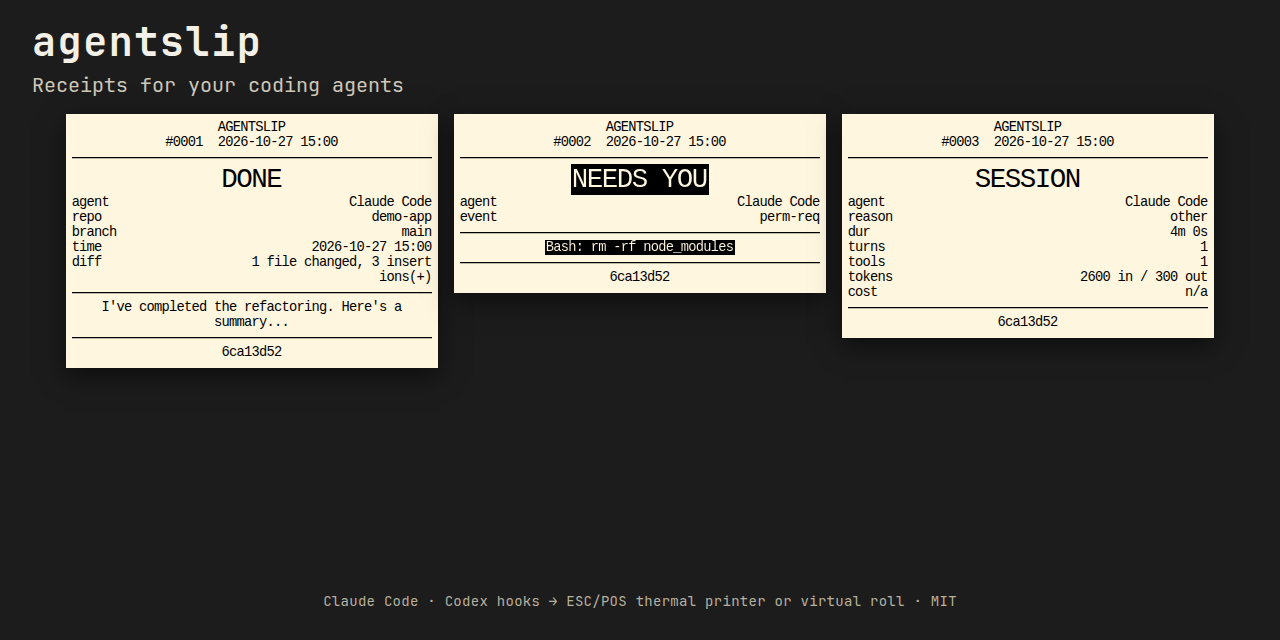
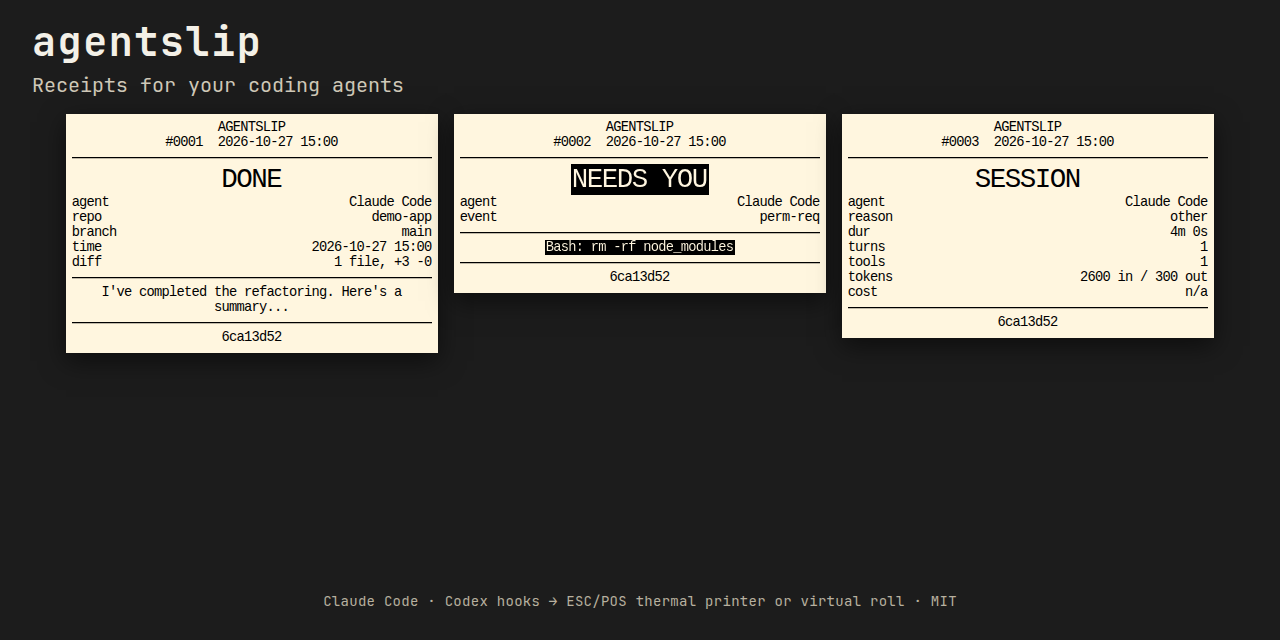
fix: never split two-column slip values mid-word
Wrap kv values at receiptline's equal-column width and print git
shortstat as 1 file, +3 -0. This stops 80 mm insertions and 58 mm
out (#8) from breaking across lines. Snapshots and a fixture-wide
word-split test cover both paper widths.

Changed region(s): [[0.0312, 0.375, 0.3438, 0.5938]]

diff --git a/src/slips/document.test.ts b/src/slips/document.test.ts
@@ -1,14 +1,19 @@
+import fs from "node:fs";
+import path from "node:path";
 import { describe, expect, it } from "vitest";
 import {
   ESC_INIT,
   buildDocument,
   columnsFor,
   hasCutSequence,
+  kvColumnWidth,
   renderFromDocument,
   renderSlip,
 } from "./document.js";
 import type { SlipData } from "../types.js";
 import { defaultConfig } from "../config.js";
+import { compactShortstat } from "../gitinfo.js";
+import { parseHook } from "../hooks/parse.js";
 
 const time = new Date("2026-10-27T15:00:00.000Z");
 
@@ -141,5 +146,170 @@ describe("snapshots from the same receiptline document", () => {
         `../../test/__snapshots__/${name}.escpos.hex`,
       );
     });
+  }
+});
+
+const sessionWithTokens: SlipData = {
+  ...session,
+  duration: "4m 0s",
+  turns: 1,
+  tools: 1,
+  tokens: "2600 in / 300 out",
+  cost: "n/a",
+};
+
+function svgTextLines(svg: string): string[] {
+  const rows = [...svg.matchAll(/<g transform="translate\(0,(\d+)\)">([\s\S]*?)<\/g>/g)];
+  const byY = new Map<number, string>();
+  for (const m of rows) {
+    const y = Number(m[1]);
+    const chars = [...m[2].matchAll(/>([^<]*)<\/tspan>/g)]
+      .map((t) => t[1].replace(/&#xa0;/g, " "))
+      .join("");
+    if (!chars.replace(/\s/g, "")) continue;
+    byY.set(y, `${byY.get(y) ?? ""}${chars}`);
+  }
+  return [...byY.entries()]
+    .sort((a, b) => a[0] - b[0])
+    .map(([, t]) => t);
+}
+
+function midWordSplits(lines: string[], haystack: string): string[] {
+  const hits: string[] = [];
+  const hay = haystack.replace(/\s+/g, " ");
+  for (let i = 1; i < lines.length; i++) {
+    const prev = lines[i - 1].replace(/\s+$/, "");
+    const next = lines[i].replace(/^\s+/, "");
+    const left = prev.match(/[A-Za-z0-9]+$/);
+    const right = next.match(/^[A-Za-z0-9]+/);
+    if (!left || !right) continue;
+    const word = `${left[0]}${right[0]}`;
+    if (word.length < 3) continue;
+    if (hay.includes(word)) hits.push(`${left[0]}|${right[0]}`);
+  }
+  return hits;
+}
+
+function fieldHaystack(data: SlipData): string {
+  return [
+    data.agent,
+    data.event,
+    data.repo,
+    data.branch,
+    data.summary,
+    data.request,
+    data.gitShortstat,
+    data.gitShortstat ? compactShortstat(data.gitShortstat) : "",
+    data.tokens,
+    data.cost,
+    data.duration,
+    data.reason,
+    data.turns === undefined ? "" : String(data.turns),
+    data.tools === undefined ? "" : String(data.tools),
+    "AGENTSLIP",
+    "DONE",
+    "SESSION",
+    "perm-req",
+    "notify",
+    "insertions",
+    "out",
+  ].join(" ");
+}
+
+describe("two-column values never split a word", () => {
+  it("uses receiptline's equal-column width", () => {
+    expect(kvColumnWidth(32)).toBe(16);
+    expect(kvColumnWidth(48)).toBe(24);
+  });
+
+  it("prints a compact shortstat on DONE", () => {
+    const { document } = buildDocument(done, { widthMm: 58, ticketNo: 1 });
+    expect(document).toMatch(/1 file, \+3 \\-0/);
+    expect(document).not.toContain("insertions");
+  });
+
+  it("keeps 'out' intact on a 58 mm SESSION token row", () => {
+    const rendered = renderSlip(sessionWithTokens, defaultConfig(), 1);
+    const lines = svgTextLines(rendered.svg);
+    expect(lines.join(" ")).toMatch(/300\s+out/);
+    expect(midWordSplits(lines, fieldHaystack(sessionWithTokens))).toEqual([]);
+  });
+
+  it("falls back to a single column when a token is wider than the value column", () => {
+    const long: SlipData = { ...done, repo: "supercalifragilistic" };
+    const { document } = buildDocument(long, { widthMm: 58, ticketNo: 1 });
+    expect(document).toMatch(/^repo$/m);
+    expect(document).toContain("supercalifragilistic");
+    expect(document).not.toMatch(/repo\s+\|/);
+  });
+
+  const canned: [string, SlipData][] = [
+    ["done", done],
+    ["needs-you", needs],
+    ["session", session],
+    ["session-tokens", sessionWithTokens],
+  ];
+
+  for (const width of [58, 80] as const) {
+    for (const [name, data] of canned) {
+      it(`${name} at ${width} mm`, () => {
+        const cfg = { ...defaultConfig(), widthMm: width };
+        const rendered = renderSlip(data, cfg, 1);
+        const splits = midWordSplits(svgTextLines(rendered.svg), fieldHaystack(data));
+        expect(splits, `${name} ${width} mm split ${splits.join(",")}`).toEqual([]);
+      });
+    }
+  }
+
+  const fixtureFiles = [
+    "fixtures/claude-code/stop.json",
+    "fixtures/claude-code/stop-sparse.json",
+    "fixtures/claude-code/notification.json",
+    "fixtures/claude-code/permission-request.json",
+    "fixtures/claude-code/session-end.json",
+    "fixtures/codex/stop.json",
+    "fixtures/codex/permission-request.json",
+    "fixtures/codex/session-end.json",
+  ];
+
+  for (const rel of fixtureFiles) {
+    for (const width of [58, 80] as const) {
+      it(`${rel} at ${width} mm`, async () => {
+        const prev = {
+          repo: process.env.AGENTSLIP_GIT_REPO,
+          branch: process.env.AGENTSLIP_GIT_BRANCH,
+          stat: process.env.AGENTSLIP_GIT_SHORTSTAT,
+        };
+        process.env.AGENTSLIP_GIT_REPO = "demo-app";
+        process.env.AGENTSLIP_GIT_BRANCH = "main";
+        process.env.AGENTSLIP_GIT_SHORTSTAT = "1 file changed, 3 insertions(+)";
+        try {
+          const payload = JSON.parse(fs.readFileSync(path.join(process.cwd(), rel), "utf8")) as Record<
+            string,
+            unknown
+          >;
+          if (rel.includes("session-end")) {
+            payload.transcript_path = path.join(
+              process.cwd(),
+              "fixtures/transcripts/claude-session.jsonl",
+            );
+          }
+          const data = await parseHook(payload, time);
+          expect(data).not.toBeNull();
+          if (!data) return;
+          const cfg = { ...defaultConfig(), widthMm: width };
+          const rendered = renderSlip(data, cfg, 1);
+          const splits = midWordSplits(svgTextLines(rendered.svg), fieldHaystack(data));
+          expect(splits, `${rel} ${width} mm split ${splits.join(",")}`).toEqual([]);
+        } finally {
+          if (prev.repo === undefined) delete process.env.AGENTSLIP_GIT_REPO;
+          else process.env.AGENTSLIP_GIT_REPO = prev.repo;
+          if (prev.branch === undefined) delete process.env.AGENTSLIP_GIT_BRANCH;
+          else process.env.AGENTSLIP_GIT_BRANCH = prev.branch;
+          if (prev.stat === undefined) delete process.env.AGENTSLIP_GIT_SHORTSTAT;
+          else process.env.AGENTSLIP_GIT_SHORTSTAT = prev.stat;
+        }
+      });
+    }
   }
 });

diff --git a/src/slips/document.ts b/src/slips/document.ts
@@ -2,6 +2,7 @@ import { createHash } from "node:crypto";
 import { createRequire } from "node:module";
 import type { AgentslipConfig, RenderedSlip, SlipData } from "../types.js";
 import { formatLocal } from "../clock.js";
+import { compactShortstat } from "../gitinfo.js";
 import { redact } from "../redact.js";
 import { wrapLine } from "../wrap.js";
 import { escapeRl } from "./escape.js";
@@ -51,7 +52,7 @@ export function buildDocument(
     kv(lines, "branch", data.branch ? r(data.branch) : undefined, cpl);
     kv(lines, "time", formatLocal(data.time), cpl);
     if (data.duration) kv(lines, "dur", data.duration, cpl);
-    if (data.gitShortstat) kv(lines, "diff", r(data.gitShortstat), cpl);
+    if (data.gitShortstat) kv(lines, "diff", r(compactShortstat(data.gitShortstat)), cpl);
     if (data.summary) {
       lines.push("-".repeat(Math.min(cpl, 32)));
       for (const w of wrapLine(r(data.summary), cpl)) lines.push(escapeRl(w));
@@ -108,11 +109,22 @@ export function eventLabel(event: string): string {
   }
 }
 
+/** receiptline `|` splits a line into two equal columns. */
+export function kvColumnWidth(cpl: number): number {
+  return Math.floor(cpl / 2);
+}
+
 function kv(lines: string[], key: string, value: string | undefined, cpl: number): void {
   if (value === undefined || value === "") return;
+  const colW = kvColumnWidth(cpl);
+  const words = value.replace(/\s+/g, " ").trim().split(" ");
+  if (words.some((w) => w.length > colW)) {
+    lines.push(escapeRl(key));
+    for (const w of wrapLine(value, cpl)) lines.push(escapeRl(w));
+    return;
+  }
+  const wrapped = wrapLine(value, colW);
   const keyW = Math.max(6, key.length);
-  const valW = Math.max(8, cpl - keyW - 3);
-  const wrapped = wrapLine(value, valW);
   const first = wrapped[0] ?? "";
   lines.push(`${escapeRl(key.padEnd(keyW))} | ${escapeRl(first)}`);
   for (const extra of wrapped.slice(1)) {

diff --git a/src/gitinfo.test.ts b/src/gitinfo.test.ts
@@ -1,0 +1,17 @@
+import { describe, expect, it } from "vitest";
+import { compactShortstat } from "./gitinfo.js";
+
+describe("compactShortstat", () => {
+  it("compacts the usual git --shortstat line", () => {
+    expect(compactShortstat(" 1 file changed, 3 insertions(+)")).toBe("1 file, +3 -0");
+    expect(compactShortstat("2 files changed, 10 insertions(+), 5 deletions(-)")).toBe(
+      "2 files, +10 -5",
+    );
+    expect(compactShortstat("1 file changed, 2 deletions(-)")).toBe("1 file, +0 -2");
+  });
+
+  it("leaves already-compact or unknown strings alone", () => {
+    expect(compactShortstat("1 file, +3 -0")).toBe("1 file, +3 -0");
+    expect(compactShortstat("working tree clean")).toBe("working tree clean");
+  });
+});

diff --git a/src/gitinfo.ts b/src/gitinfo.ts
@@ -47,3 +47,15 @@ function emptyToUndef(s: string | undefined): string | undefined {
   if (s === undefined || s === "") return undefined;
   return s;
 }
+
+/** `1 file changed, 3 insertions(+)` → `1 file, +3 -0`. Unknown shapes pass through. */
+export function compactShortstat(raw: string): string {
+  const t = raw.replace(/\s+/g, " ").trim();
+  const files = t.match(/(\d+) files? changed/i);
+  if (!files) return t;
+  const n = files[1];
+  const fileWord = n === "1" ? "file" : "files";
+  const ins = t.match(/(\d+) insertions?/i);
+  const del = t.match(/(\d+) deletions?/i);
+  return `${n} ${fileWord}, +${ins?.[1] ?? "0"} -${del?.[1] ?? "0"}`;
+}

diff --git a/CHANGELOG.md b/CHANGELOG.md
@@ -15,6 +15,7 @@
 - Secrets split across lines (bash `\` continuation, `postgres://admin:` then a newline then the password) are deferred to v0.1.3.
 - Pages preview: description, canonical, Open Graph and Twitter card tags; sitemap; `social-preview.png` copied into the build. `<title>` / `og:title` / `twitter:title` name thermal receipts. SESSION on the social card uses the transcript fixture (duration, turns, tools, tokens; cost stays `n/a`).
 - README: live preview (GitHub Pages) and releases links; session totals wording (nothing estimated).
+- Two-column slip values wrap at receiptline's column width (`cpl/2`) so a word is never split; a token wider than that column prints as a single column. Git shortstat prints compact (`1 file, +3 -0`). This also stops the 58 mm SESSION tokens row from splitting `out` (#8).
 - Documented install (from 0.1.1, previously Unreleased): clone + `npm install` + `npm link` (`npm unlink -g agentslip` to remove), or `npm pack` after `npm install` then `T=$(npm pack --silent | tail -n1)` and `npm install -g "./$T"` (`npm uninstall -g agentslip` to remove). `npm install -g github:EstebanIndiveri/agentslip` does not work with the current `prepare` script (leaked global prefix, `tsc` not found). The pack tarball served over HTTP, and committing `dist/` without `prepare` (HTTP tarball or `git+file:` with `--install-links`), do work. A non-global `npm install github:EstebanIndiveri/agentslip` in a project still works.
 
 ## 0.1.1 — 2026-10-28

diff --git a/AGENTS.md b/AGENTS.md
@@ -59,6 +59,7 @@ Data directory: `~/.agentslip/` (override with `AGENTSLIP_HOME` in tests).
   31. Set `package.json` `prepare` to `node -e "process.exit(7)"` → the real-prepare test fails.
   32. Close `scanQuotedValue` whenever `n>=k` (no parity / modulus check) → quote-then-comma/brace/bracket password tests leak `Zq8Tail99`.
   33. Drop the `n>k` close branch (only close when `n===k`) → a JSON value that ends with a backslash swallows the next field (`[redacted]","user":` / `KeepNext99` tests fail).
+  34. Wrap kv values at `cpl - keyW - 3` instead of `cpl/2` → the word-split test fails (`out` on the 58 mm SESSION token row).
 
 ## Adding an agent
 
